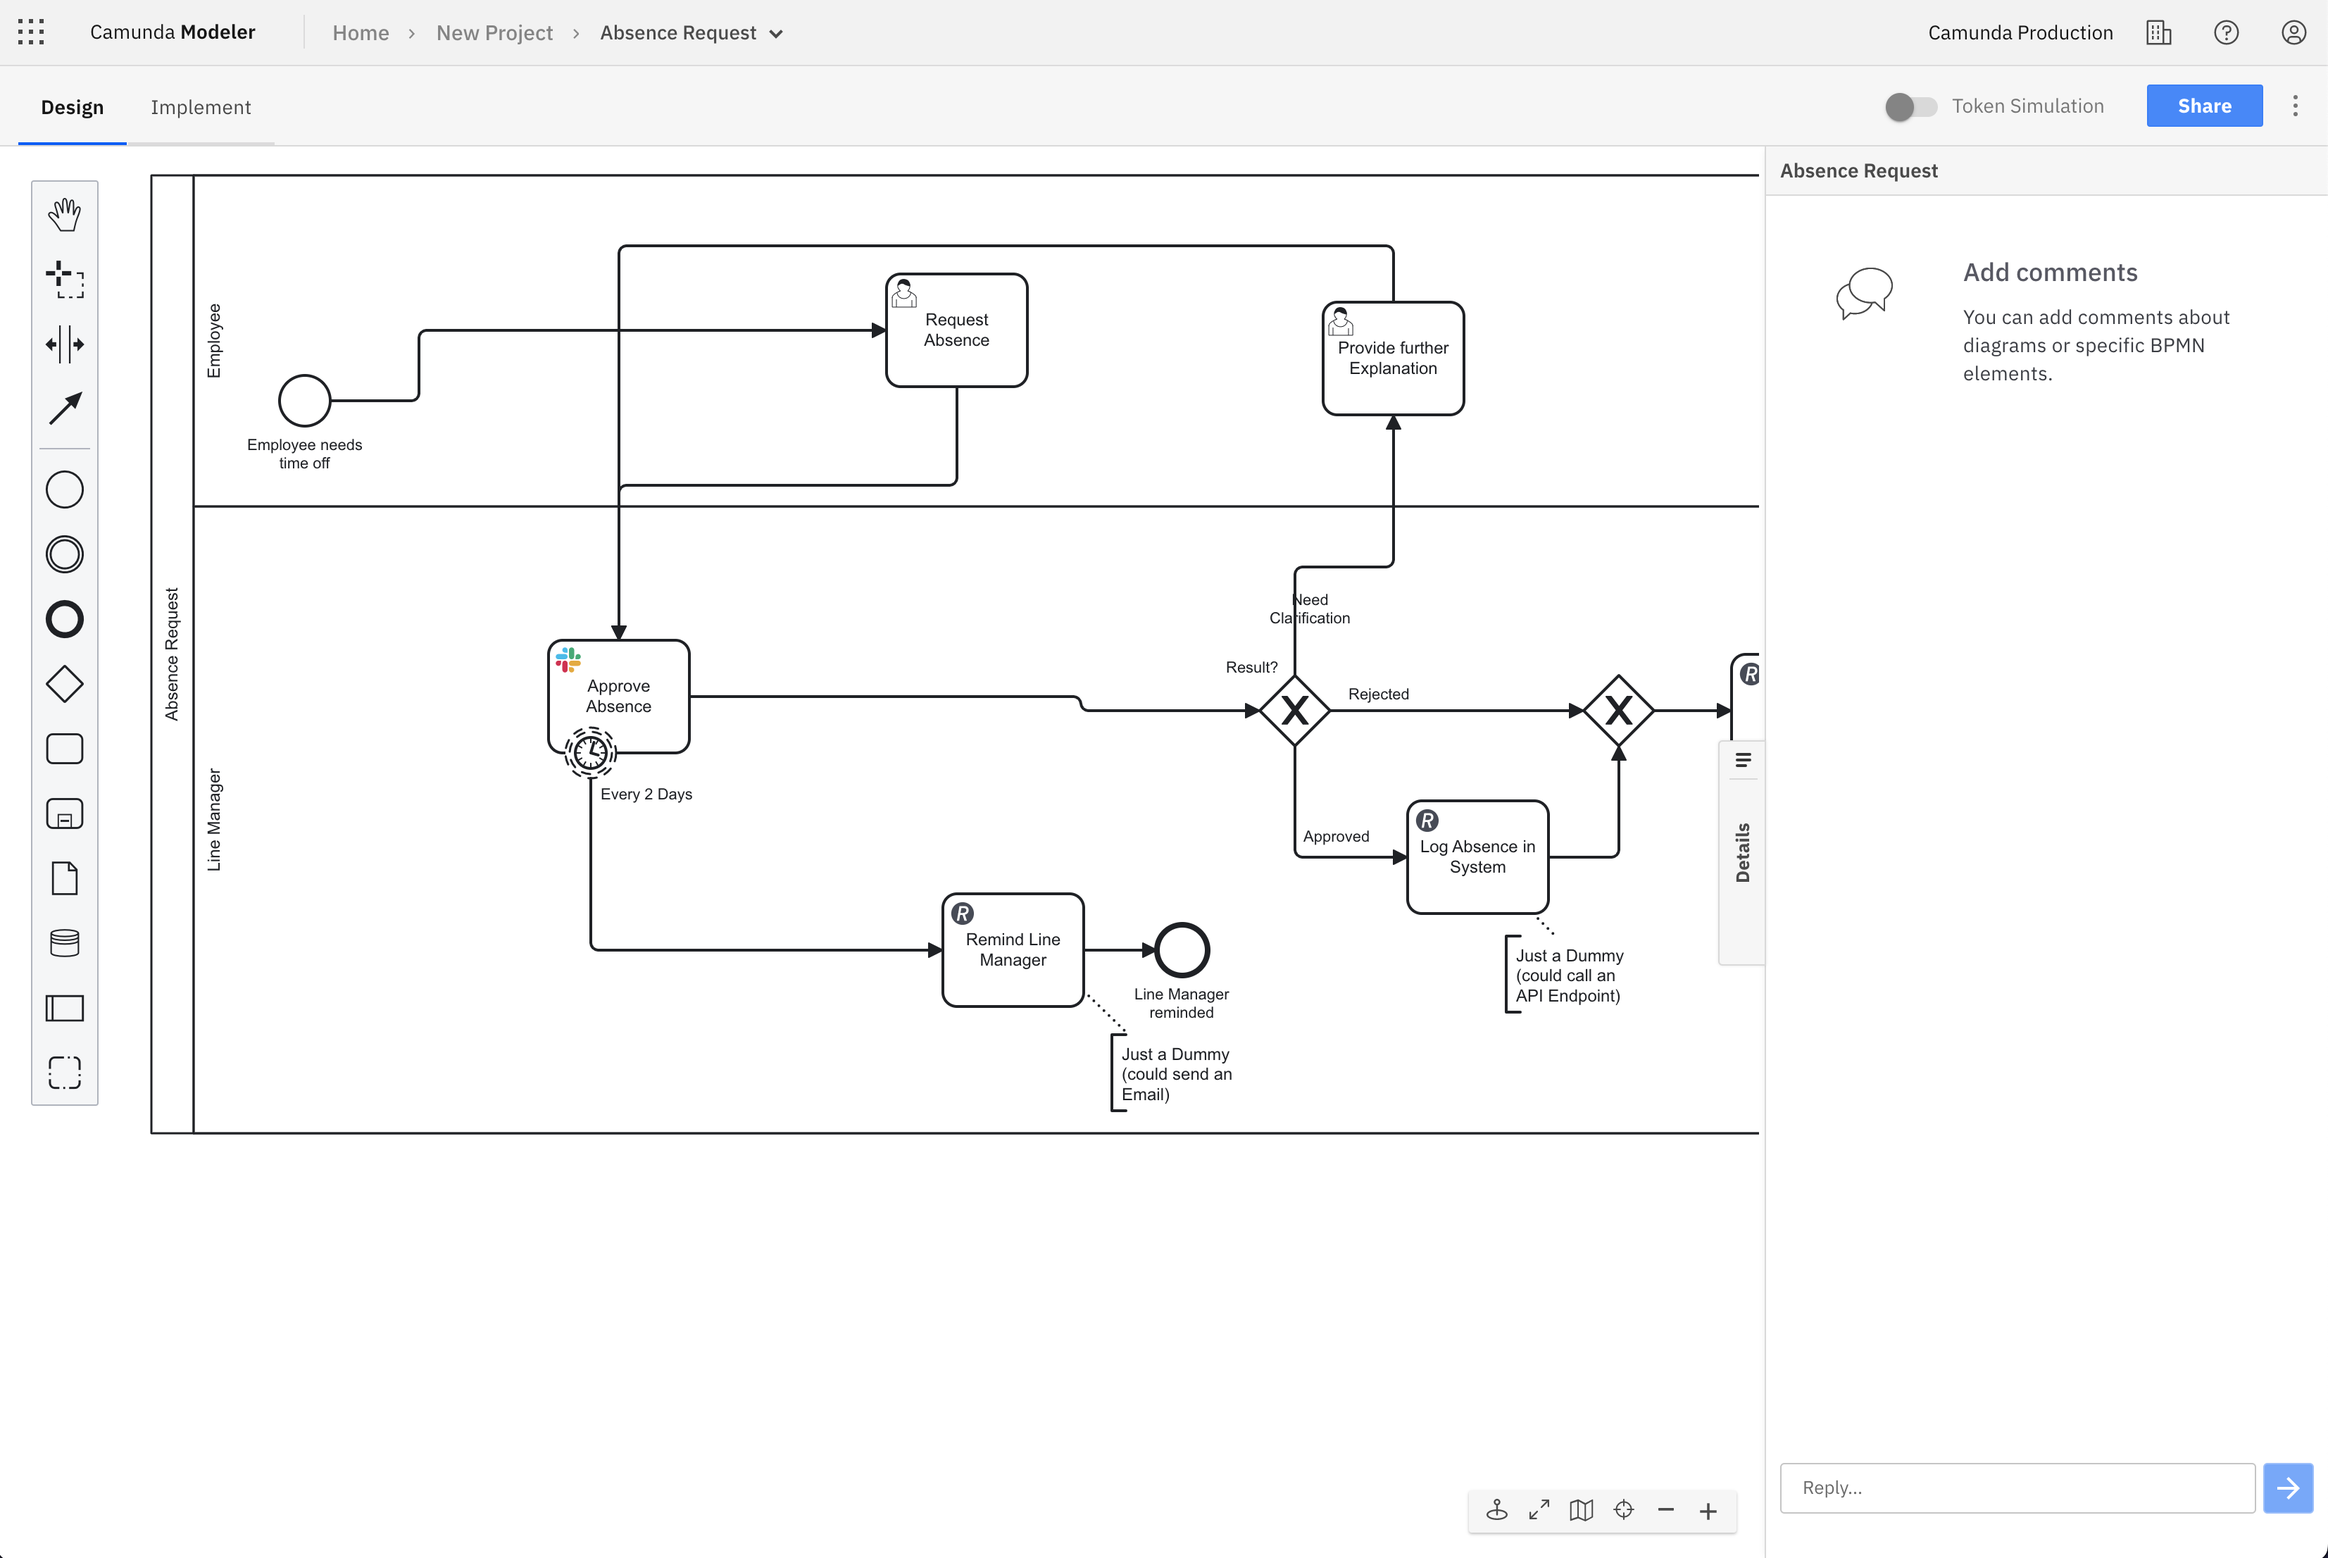
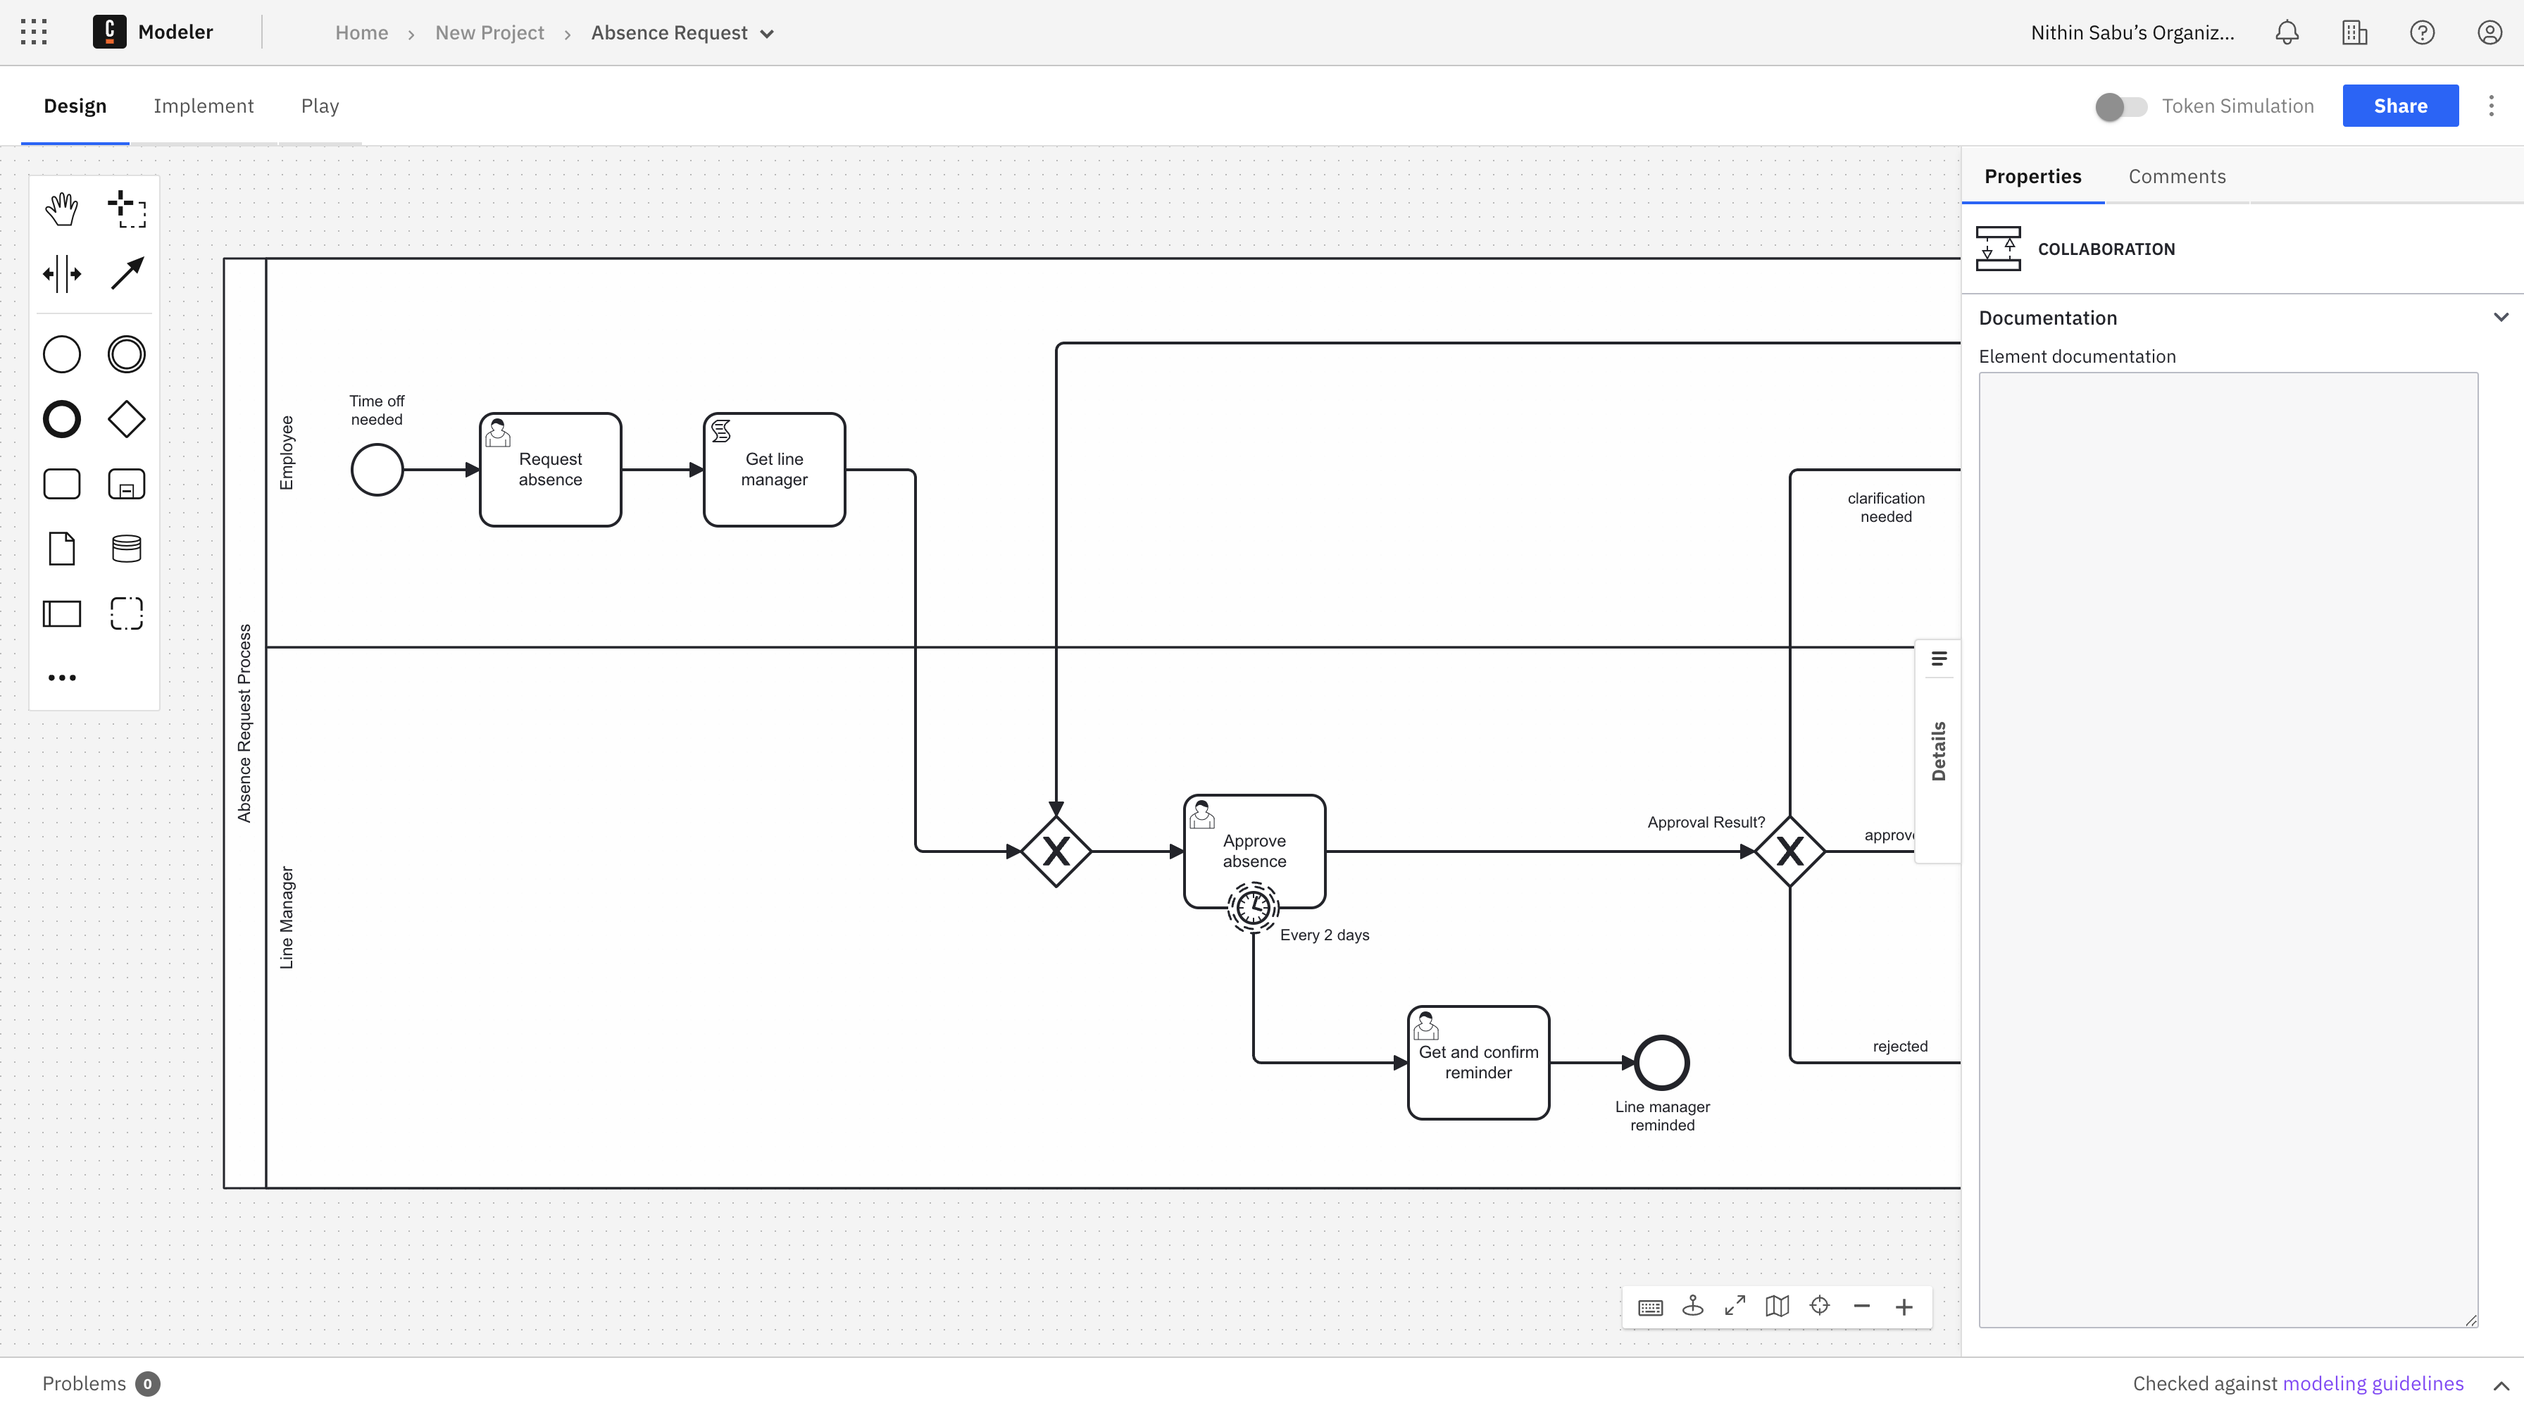
docs(web-modeler): update design mode section to include information about Documentation property

diff --git a/docs/components/modeler/web-modeler/design-your-process.md b/docs/components/modeler/web-modeler/design-your-process.md
@@ -6,11 +6,11 @@ description: "Design mode is tailored to business users and allows strategic mod
 
 <span class="badge badge--cloud">Camunda 8 only</span>
 
-In the **Design** mode view, business users have access to a different workspace of Web Modeler with a reduced properties panel. Only comments are shown, which provides a decluttered user interface.
+In the **Design** mode view, business users have access to a different workspace of Web Modeler with a reduced properties panel. Only the documentation property and comments are shown, which provides a decluttered user interface.
 
 All the technicalities, such as triggers to deploy the diagram or start the instance, are hidden. Linting is disabled, and problem annotations are discarded.
 
-The comments panel, inside the sidebar on the right-hand side of the screen, is collapsed when switching to the design mode, and when expanded, the state is persisted even when switching to another diagram.
+The sidebar on the right-hand side of the screen is collapsed when switching to the design mode, and when expanded, the state is persisted even when switching to another diagram.
 
 As a business user, you can [**link decision models**](/components/modeler/web-modeler/advanced-modeling/business-rule-task-linking.md) and [**process models**](/components/best-practices/modeling/creating-readable-process-models.md) via [call activities](/components/modeler/bpmn/call-activities/call-activities.md), and you can still be a [**project owner**](/components/modeler/web-modeler/collaboration.md#access-rights-and-permissions), even if you don't execute implementation.
 
